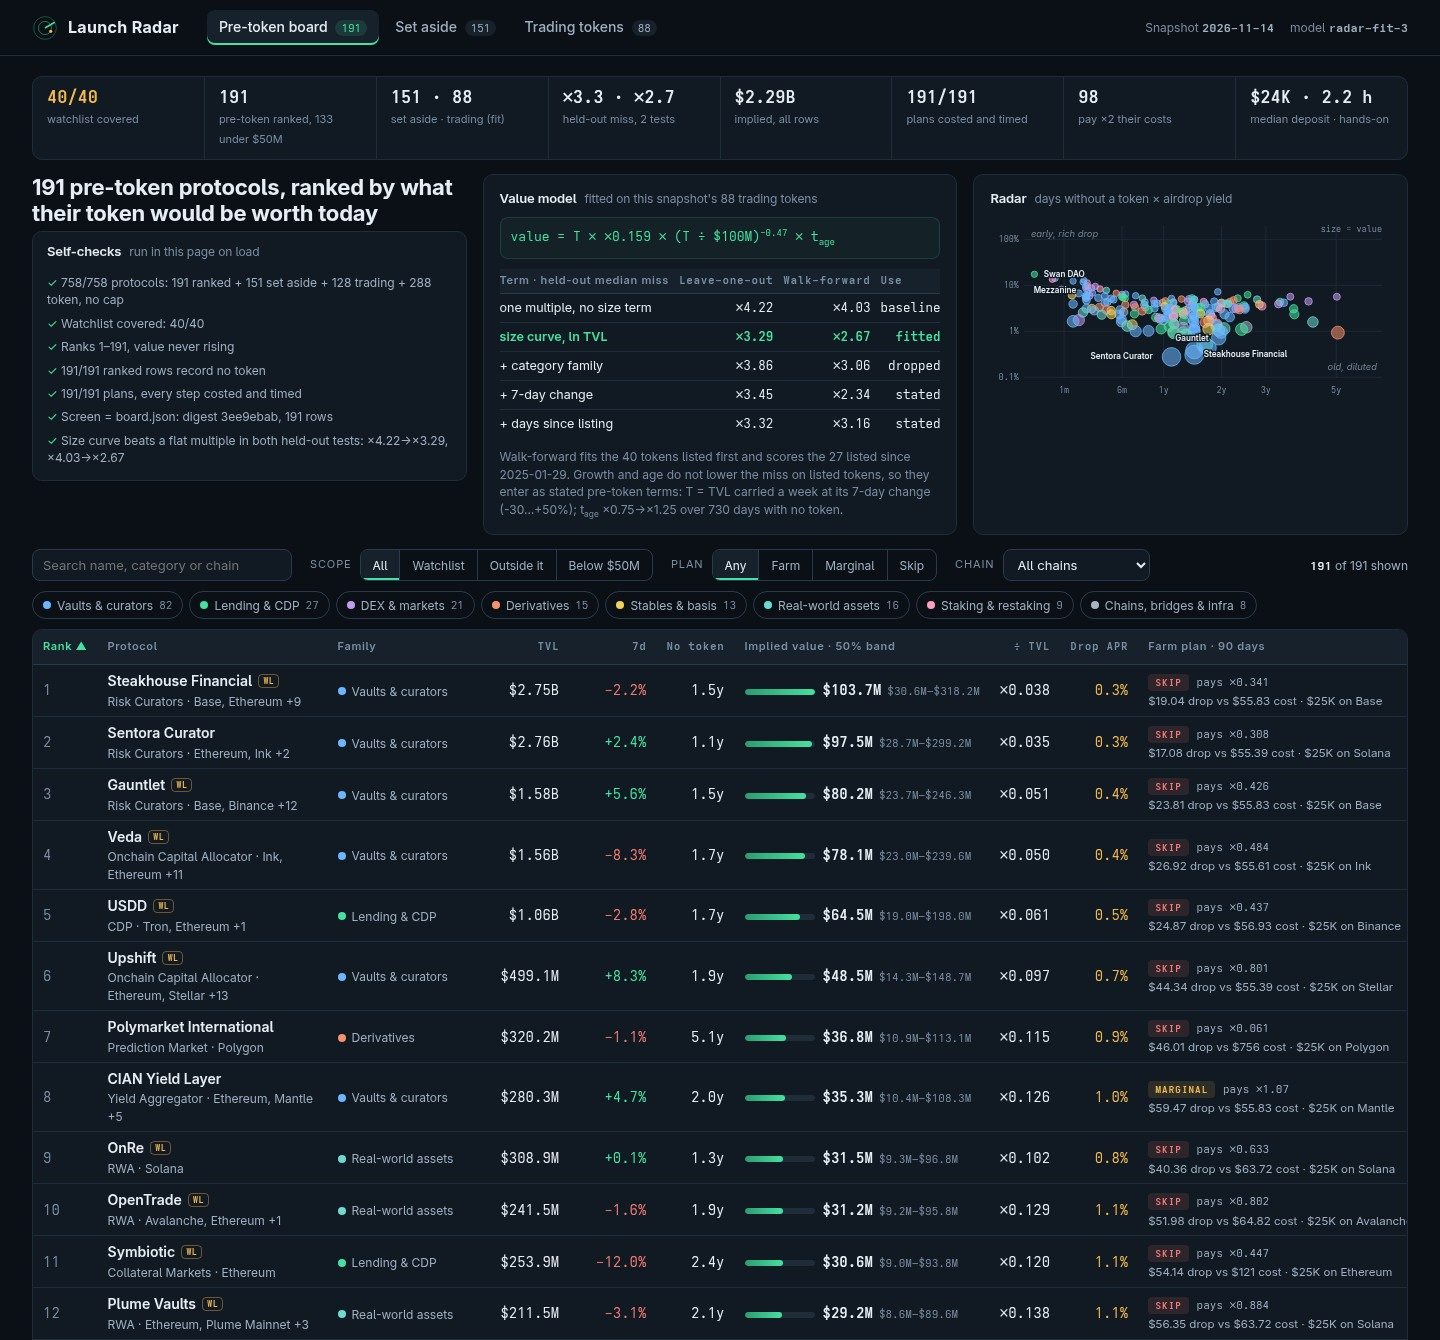
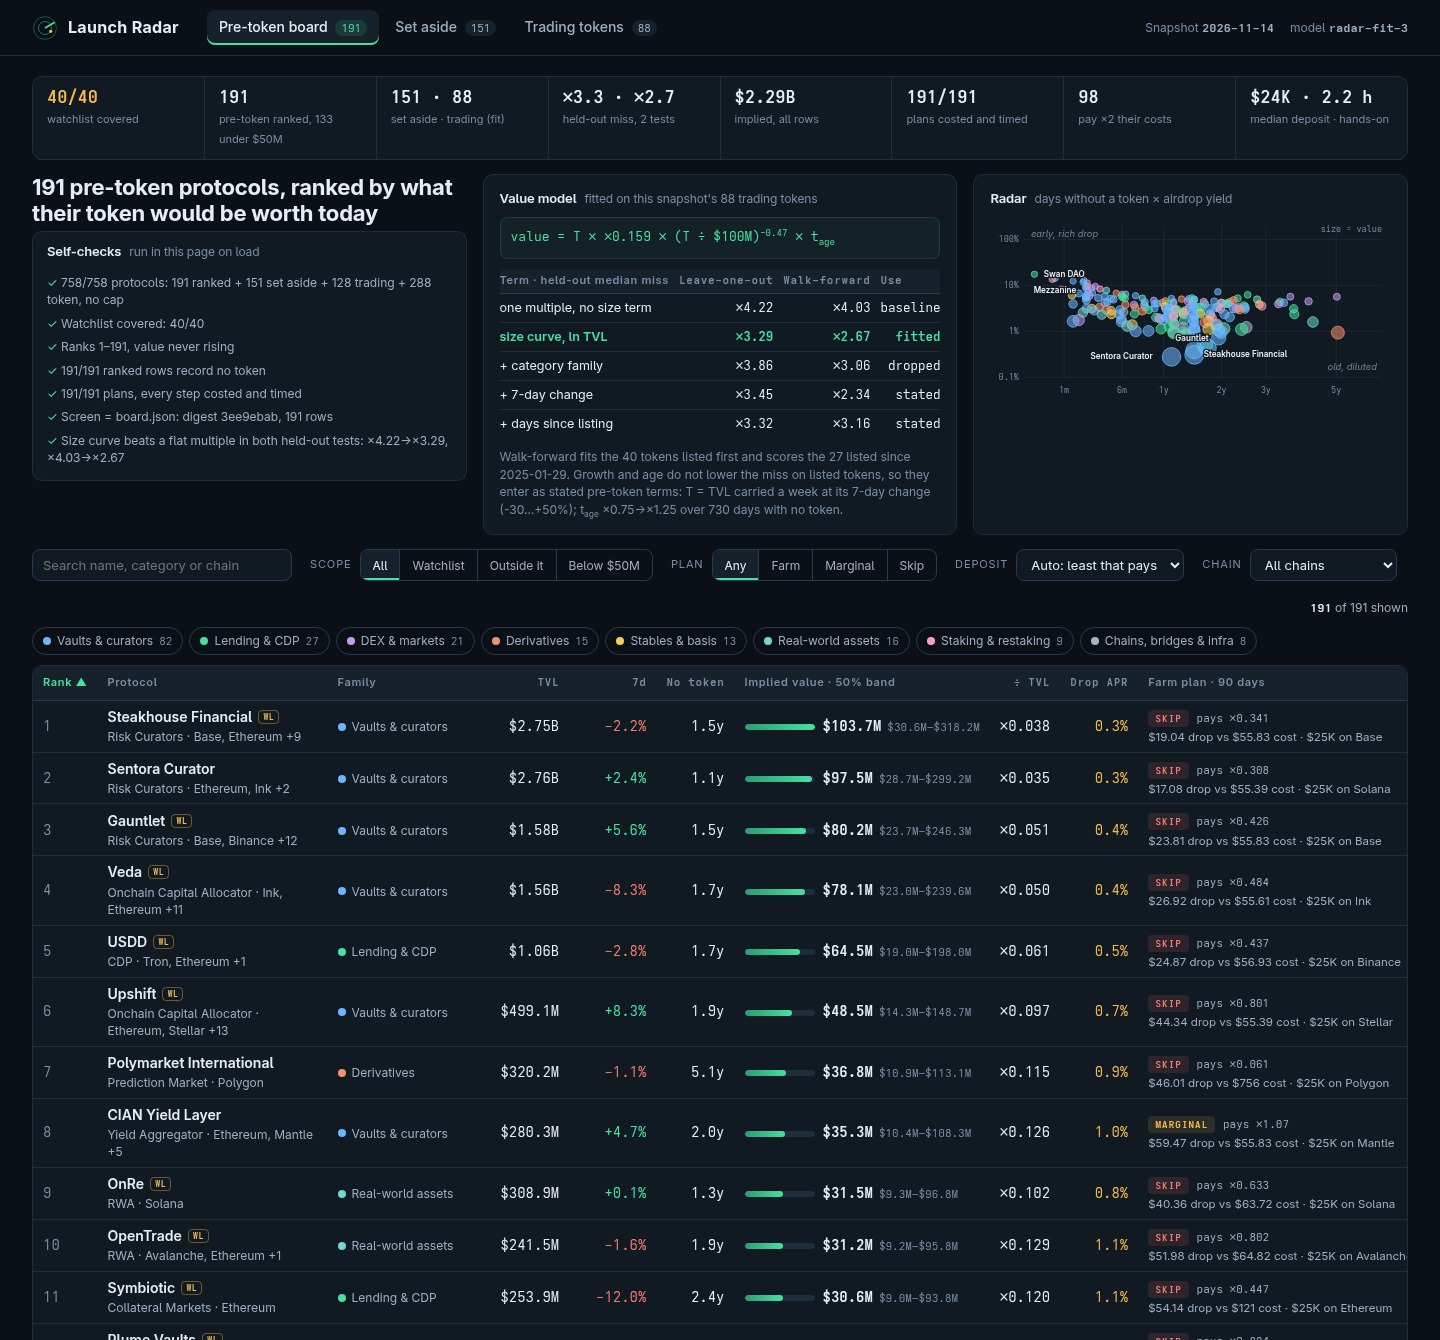
Reader-set deposit re-plans every row (Auto, $1K-$25K); filtered capture shows the farms that pay at $10K; lean board.json extras

diff --git a/dashboard/app.js b/dashboard/app.js
@@ -25,7 +25,7 @@
   const maxImplied = rows[0].v.implied;
 
   /* ---------- state in the hash ---------- */
-  const DEF = { view: 'board', q: '', fam: '', chain: '', scope: 'all', verdict: '', sort: 'rank', dir: 'asc', p: '' };
+  const DEF = { view: 'board', q: '', fam: '', chain: '', scope: 'all', verdict: '', sort: 'rank', dir: 'asc', p: '', dep: '' };
   function readHash() {
     const st = Object.assign({}, DEF);
     const own = (o, k) => Object.prototype.hasOwnProperty.call(o, k);
@@ -34,7 +34,7 @@
       if (i > 0 && own(DEF, k)) try { st[k] = decodeURIComponent(kv.slice(i + 1)); } catch (e) { /* keep the default */ }
     });
     // Unknown values fall back to the defaults, so a hand-typed link never breaks the page.
-    const ok = { view: 'board aside trading', scope: 'all watch early outside', verdict: ' farm marginal skip', dir: 'asc desc' };
+    const ok = { view: 'board aside trading', scope: 'all watch early outside', verdict: ' farm marginal skip', dir: 'asc desc', dep: ' 1000 5000 10000 25000' };
     Object.keys(ok).forEach((k) => { if (!ok[k].split(' ').includes(st[k])) st[k] = DEF[k]; });
     if (!own(KEYS, st.sort)) st.sort = 'rank';
     return st;
@@ -150,7 +150,7 @@
       const on = fams.includes(f[0]), next = on ? fams.filter((x) => x !== f[0]) : fams.concat(f[0]);
       return `<a href="${link({ fam: next.join(',') })}" class="chip f-${f[0]}${on ? ' on' : ''}"><i></i>${esc(f[1])} <b>${famCount[f[0]] || 0}</b></a>`;
     }).join('');
-    const active = st.q || st.fam || st.chain || st.scope !== 'all' || st.verdict;
+    const active = st.q || st.fam || st.chain || st.scope !== 'all' || st.verdict || st.dep;
     const body = shown.map((r) => {
       const w = Math.max(1.5, 100 * Math.sqrt(r.v.implied / maxImplied));
       return `<tr data-slug="${esc(r.p.slug)}" tabindex="0">
@@ -187,8 +187,9 @@
       <label class="search"><input id="q" type="search" value="${esc(st.q)}" placeholder="Search name, category or chain" autocomplete="off" aria-label="Search"></label>
       <div class="field"><span>Scope</span>${seg('scope', [['all', 'All'], ['watch', 'Watchlist'], ['outside', 'Outside it'], ['early', 'Below $50M']])}</div>
       <div class="field"><span>Plan</span>${seg('verdict', [['', 'Any'], ['farm', 'Farm'], ['marginal', 'Marginal'], ['skip', 'Skip']])}</div>
+      <label class="field"><span>Deposit</span><select id="dep">${['', 1000, 5000, 10000, 25000].map((d) => `<option value="${d}"${String(d) === st.dep ? ' selected' : ''}>${d ? usd(d) : 'Auto: least that pays'}</option>`).join('')}</select></label>
       <label class="field"><span>Chain</span><select id="chain"><option value="">All chains</option>${Object.keys(chains).sort((a, b) => chains[b] - chains[a] || (a < b ? -1 : 1)).map((c) => `<option${c === st.chain ? ' selected' : ''}>${esc(c)}</option>`).join('')}</select></label>
-      <div class="count"><b>${shown.length}</b> of ${rows.length} shown${active ? ` · <a href="${link({ q: '', fam: '', chain: '', scope: 'all', verdict: '' })}">clear filters</a>` : ''}</div>
+      <div class="count"><b>${shown.length}</b> of ${rows.length} shown${active ? ` · <a href="${link({ q: '', fam: '', chain: '', scope: 'all', verdict: '', dep: '' })}">clear filters</a>` : ''}</div>
     </section>
     <section class="filters"><div class="chips" role="group" aria-label="Family">${famLinks}</div></section>
     <div class="tablewrap"><table class="board">
@@ -249,7 +250,7 @@
         <ol class="steps">${pl.steps.map((s) => `<li><p><em>${esc(s.when)}</em>${esc(s.act)}.</p><span class="cost">${usd(s.usd)}</span><span class="time">${R.mins(s.min)}</span></li>`).join('')}</ol>
         <div class="math">
           <p><b>Drop APR ${(v.apr * 100).toFixed(2)}%</b> = implied ${usd(v.implied)} × ${M.drop_share * 100}% to depositors ÷ (${usd(v.tvl_next)} TVL × (${Math.min(v.age_used, M.season_days)} + ${M.farm_days}) season days) × 365.</p>
-          <p>${usd(pl.eligible)} of the ${usd(pl.stake)} sits in ${esc(p.name)} and earns; for ${pl.days} days that is about <b>${usd(pl.drop)}</b> against <b>${usd(pl.all_in)}</b> all-in (${usd(pl.cost)} gas and fees + ${R.mins(pl.minutes)} at $${M.hour_usd}/h): net <b class="${pl.net >= 0 ? 'up' : 'down'}">${pl.net >= 0 ? '+' : '−'}${usd(Math.abs(pl.net))}</b>. Capital: the least that covers costs ×${M.target_cover} ($500–$25K${pl.drop < M.target_cover * pl.all_in ? ', capped' : ''}); a ${M.drop_share * 50}% drop halves it.</p>
+          <p>${usd(pl.eligible)} of the ${usd(pl.stake)} sits in ${esc(p.name)} and earns; for ${pl.days} days that is about <b>${usd(pl.drop)}</b> against <b>${usd(pl.all_in)}</b> all-in (${usd(pl.cost)} gas and fees + ${R.mins(pl.minutes)} at $${M.hour_usd}/h): net <b class="${pl.net >= 0 ? 'up' : 'down'}">${pl.net >= 0 ? '+' : '−'}${usd(Math.abs(pl.net))}</b>. Capital: ${st.dep ? 'your deposit' : `the least that covers costs ×${M.target_cover} ($500–$25K${pl.drop < M.target_cover * pl.all_in ? ', capped' : ''})`}; a ${M.drop_share * 50}% drop halves it.</p>
         </div>
       </section>
     </div>`;
@@ -263,20 +264,21 @@
   }
 
   function trading() {
-    const kRows = fit.trials.map((t) => `<tr class="${t.k === fit.k ? 'pick' : ''}"><td>${t.k === Infinity ? 'one curve, size only' : t.k === 0 ? 'each family alone' : 'families, pull k=' + t.k}</td><td class="num">×${t.median.toFixed(2)}</td></tr>`).join('');
     const body = radar.live.map((l) => { const e = l.loo / l.actual; return `<tr><td class="proto"><span class="nm">${esc(l.p.name)}</span><small>${esc(l.p.symbol || '')} · ${esc(l.p.category || '')}</small></td><td>${famChip(l.family)}</td><td class="num">${usd(l.tvl)}${l.members > 1 ? ` <small>${l.members} parts</small>` : ''}</td><td class="num">${usd(l.actual)}</td><td class="num">${mult(l.actual / l.tvl)}</td><td class="num">${usd(l.loo)}</td><td class="num ${e > 2 || e < 0.5 ? 'down' : 'up'}">${mult(e)}</td></tr>`; }).join('');
     return `<section class="intro"><h1>${fit.n} tokens that trade: the model's calibration set</h1>
       <p>Kept off the board: their market prices them. calibrate() pools TVL per token, leaves out exchanges and products, and fits ln(mcap ÷ TVL) on ln(TVL): value grows as TVL<sup>${fit.elasticity.toFixed(2)}</sup>. ${radar.listed_only} more record a token with no market cap.</p></section>
-      <div class="split"><div class="card"><h2>Model choice <span>median out-of-sample miss</span></h2><table class="mini"><tbody>${kRows}</tbody></table>
-      <p class="note">Leave-one-out against real market caps: median miss ×${fit.median_error.toFixed(2)}; band ×${fit.band_low.toFixed(2)}–×${fit.band_high.toFixed(2)} holds ${fit.band_hits}/${fit.n}. ${fit.clipped} ratios clipped to ×${M.ratio_floor}–×${M.ratio_cap} in the fit only.</p></div>
+      <div class="split"><div class="card"><h2>Held-out fit</h2><p class="note">Family pull k chosen from ${fit.trials.map((t) => t.k).join(', ')} by median miss (×${fit.trials[0].median.toFixed(2)} alone → ×${fit.median_error.toFixed(2)} chosen). Leave-one-out against real market caps: median miss ×${fit.median_error.toFixed(2)}; band ×${fit.band_low.toFixed(2)}–×${fit.band_high.toFixed(2)} holds ${fit.band_hits}/${fit.n}. ${fit.clipped} ratios clipped to ×${M.ratio_floor}–×${M.ratio_cap} in the fit only.</p></div>
       <div class="tablewrap"><table class="board"><thead><tr><th>Protocol</th><th>Family</th><th class="num">TVL</th><th class="num">Market cap</th><th class="num">÷ TVL</th><th class="num">Fit without it</th><th class="num">÷ market</th></tr></thead><tbody>${body}</tbody></table></div></div>`;
   }
 
   /* ---------- render and events ---------- */
+  let planDep = '';
   function render() {
     const st = readHash();
     head(st);
     app.className = st.p ? 'detail' : st.view;
+    // A deposit chosen by the reader re-plans every row at that amount (farmPlan's dep).
+    if (st.dep !== planDep) { planDep = st.dep; rows.forEach((r) => { r.plan = R.farmPlan(r.p, r.v, +st.dep); }); }
     app.innerHTML = st.p ? detail(st) : st.view === 'aside' ? aside() : st.view === 'trading' ? trading() : board(st);
     document.getElementById('foot').innerHTML = `Source: ${esc(S.source)}. Floor $${(S.floor_usd / 1e6).toFixed(0)}M. Implied values are this radar's estimate of a token's worth if the record stayed as it is: no launch forecast, never make.fun's claim. A protocol may hold a token DefiLlama does not record.`;
     if (st.p) window.scrollTo(0, 0);
@@ -290,7 +292,7 @@
       typing = setTimeout(() => { typing = null; history.replaceState(null, '', link({ q: val })); render(); const q = document.getElementById('q'); if (q) { q.focus(); q.setSelectionRange(val.length, val.length); } }, 160);
     }
   });
-  app.addEventListener('change', (e) => { if (e.target.id === 'chain') go({ chain: e.target.value }); });
+  app.addEventListener('change', (e) => { if (e.target.id === 'chain' || e.target.id === 'dep') go({ [e.target.id]: e.target.value }); });
   ['click', 'keydown'].forEach((ev) => app.addEventListener(ev, (e) => {
     const tr = e.target.closest('tr[data-slug]');
     if (tr && !e.target.closest('a') && (ev === 'click' || e.key === 'Enter')) go({ p: tr.dataset.slug });

diff --git a/dashboard/model.js b/dashboard/model.js
@@ -248,7 +248,7 @@
 
   /* A farm plan from the row's own figures: steps with a dollar cost and a time each, on the cheapest of
    * its three main chains. */
-  function farmPlan(p, v) {
+  function farmPlan(p, v, dep) {
     var main = p.chains.slice(0, 3), chain = main[0] || 'its main chain';
     main.forEach(function (c) { if (gas(c) < gas(chain)) chain = c; });
     var kind = p.category === 'Prediction Market' ? 'predict' : v.family;
@@ -271,8 +271,9 @@
     // Only capital in the protocol earns: the deposit, plus the side deposit for vaults (a second vault).
     function eligible(stake) { return kind === 'vault' ? stake + Math.round(stake / 4) : stake; }
     // The smallest deposit ($500 steps of capital, up to $25,000) whose drop covers costs target_cover times.
-    var stake = 20000;
-    for (var k = 400; k <= 20000; k += 400) {
+    // A reader's deposit (dep, total capital) fixes the stake; otherwise search for the least that pays.
+    var stake = dep ? Math.round(dep / 1.25) : 20000;
+    for (var k = 400; !dep && k <= 20000; k += 400) {
       if (eligible(k) * perDollar >= M.target_cover * total(steps(k)).all) { stake = k; break; }
     }
     var st = steps(stake), t = total(st), capital = stake + Math.round(stake / 4), drop = eligible(stake) * perDollar;
@@ -319,10 +320,8 @@
     return radar.rows.map(function (r) {
       return { rank: r.rank, slug: r.p.slug, name: r.p.name, implied_value_usd: r.v.implied,
         farm_steps: r.plan.steps.map(stepText),
-        token_status: 'pre-token', on_watchlist: r.watch, category: r.p.category, family: r.v.family, chains: r.p.chains,
-        tvl_usd: r.p.tvl_usd, change_7d: r.p.change_7d, days_without_token: r.v.age, implied_low_usd: r.v.low, implied_high_usd: r.v.high,
-        factors: { family_multiple: +r.v.fam_multiple.toFixed(4), size: +r.v.size_mult.toFixed(4), momentum_tvl: r.v.tvl_next, time: +r.v.time_factor.toFixed(4) },
-        airdrop_apr: +r.v.apr.toFixed(4), farm: { chain: r.plan.chain, capital_usd: r.plan.stake, cost_usd: +r.plan.cost.toFixed(2), minutes: r.plan.minutes, expected_drop_usd: +r.plan.drop.toFixed(2), drop_share_for_target: +r.plan.need_share.toFixed(4), verdict: r.plan.verdict } };
+        token_status: 'pre-token', on_watchlist: r.watch, implied_low_usd: r.v.low, implied_high_usd: r.v.high,
+        farm: { capital_usd: r.plan.stake, cost_usd: +r.plan.cost.toFixed(2), minutes: r.plan.minutes, drop_usd: +r.plan.drop.toFixed(2), verdict: r.plan.verdict } };
     });
   }
 
